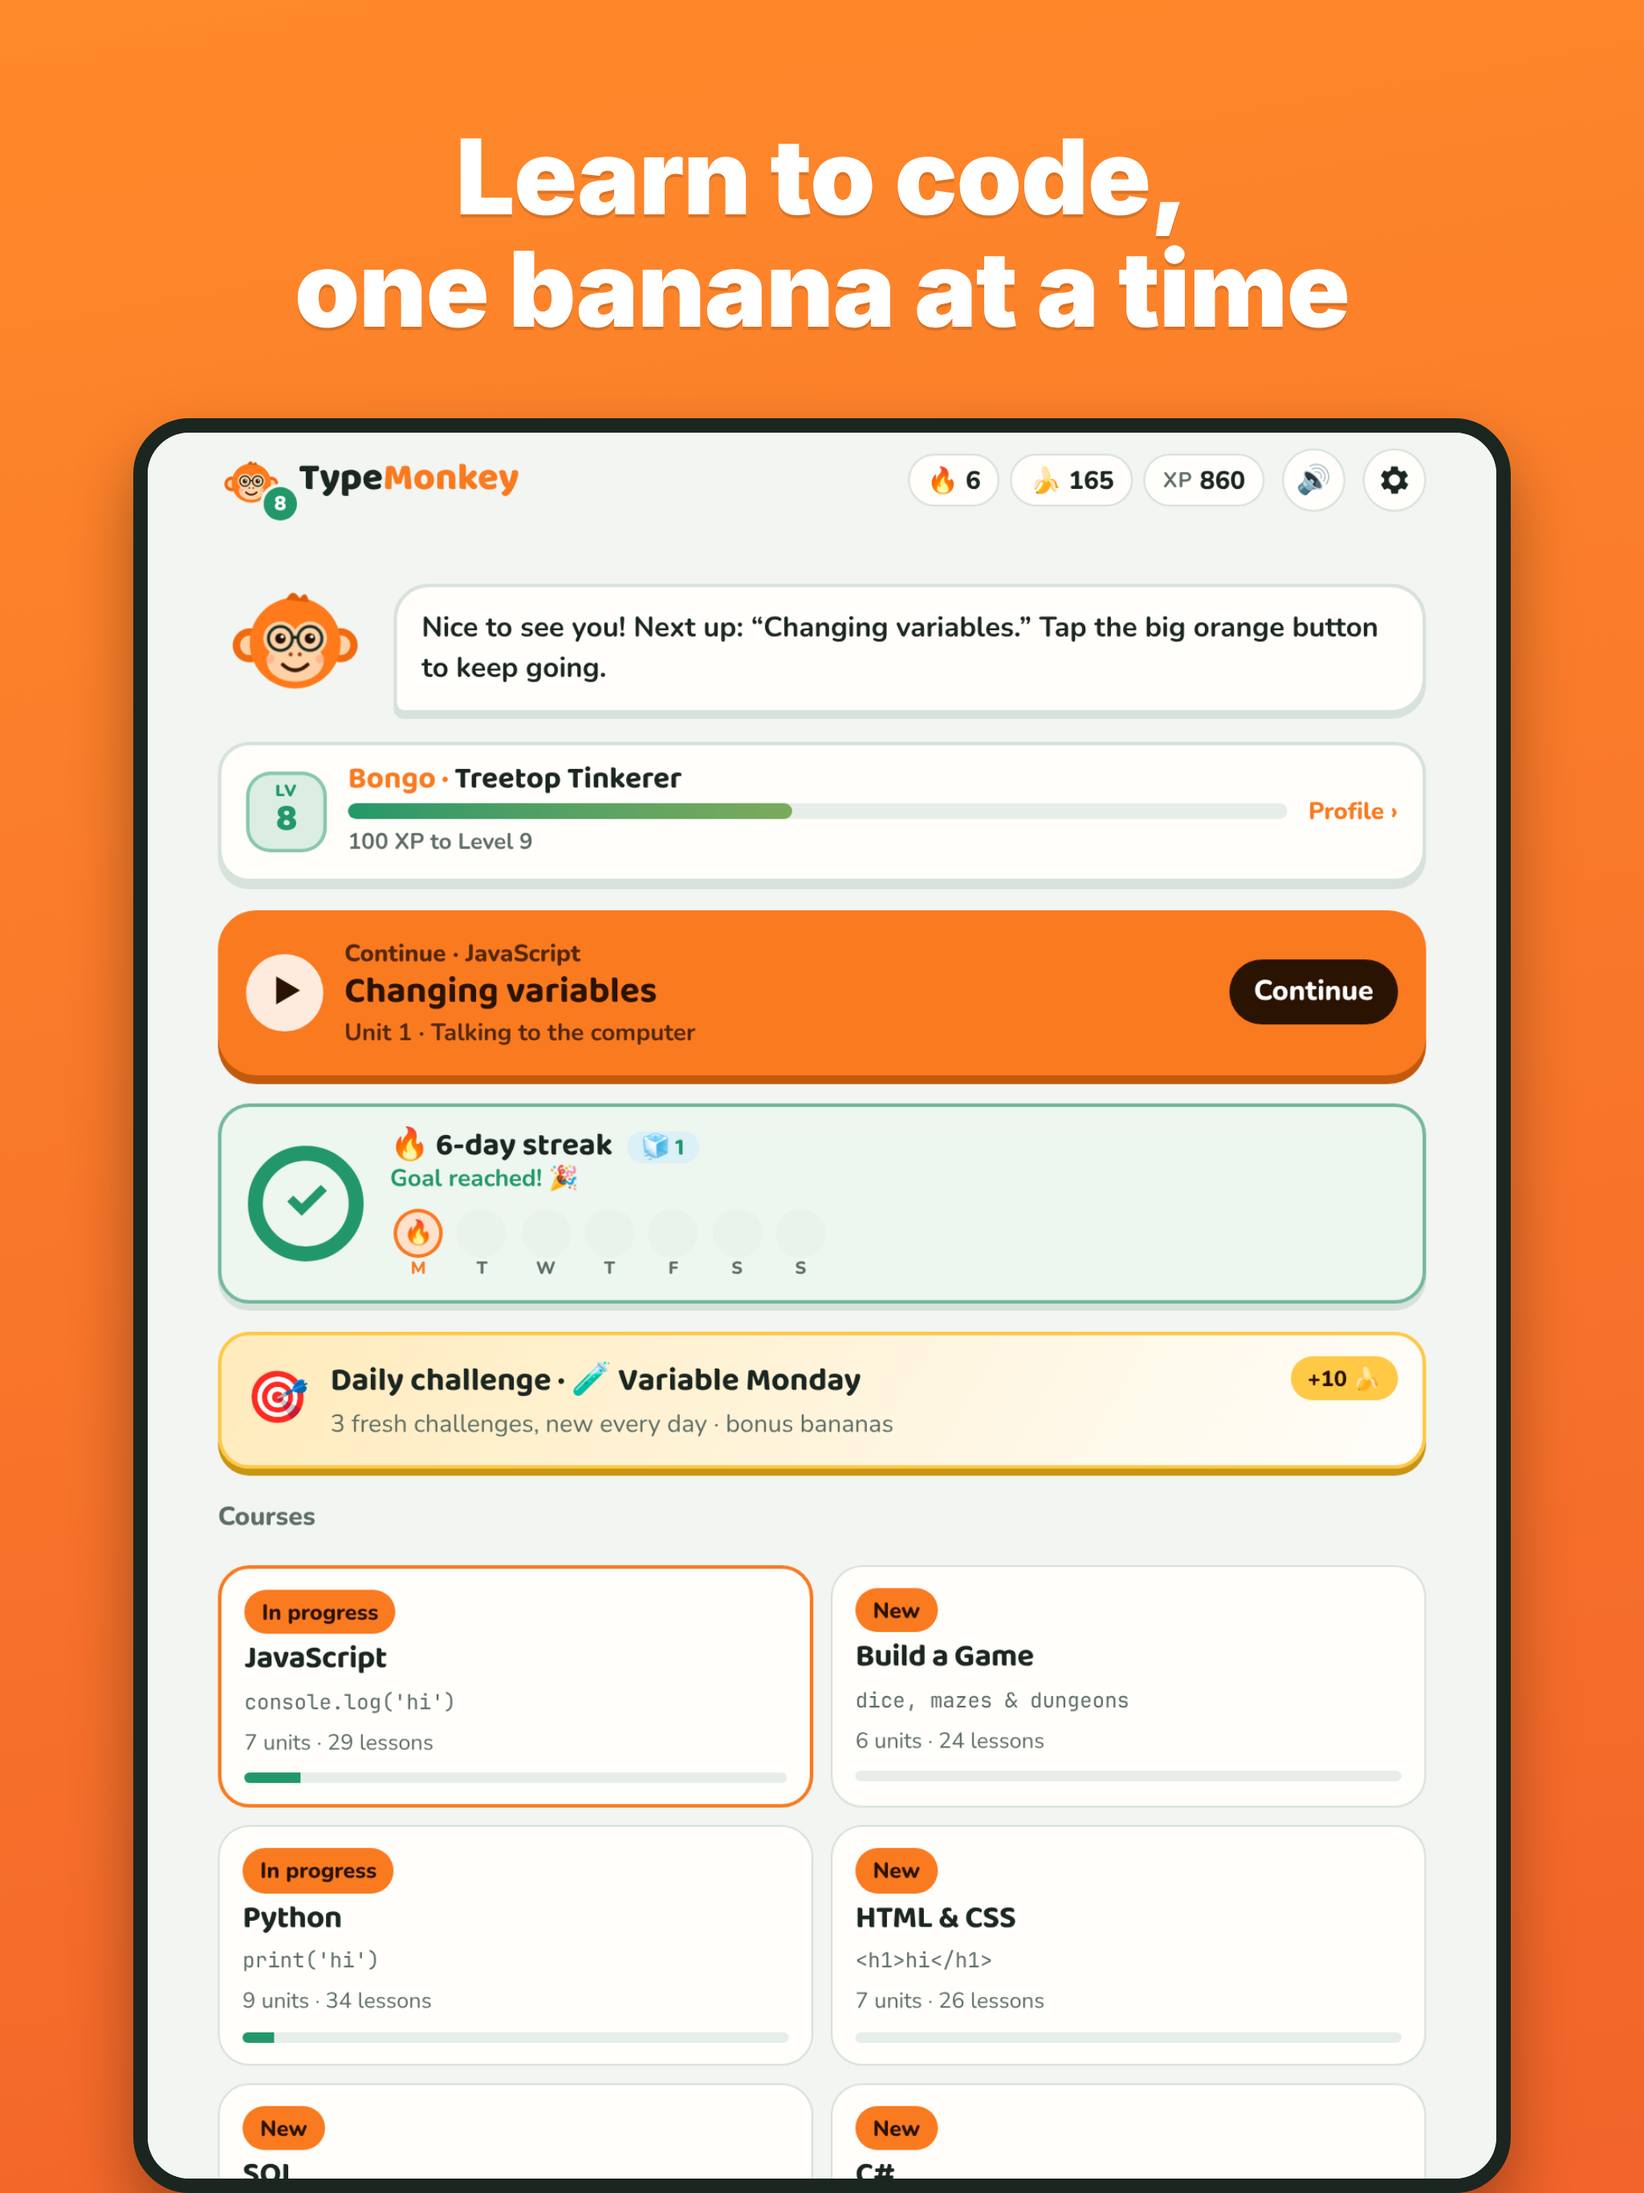
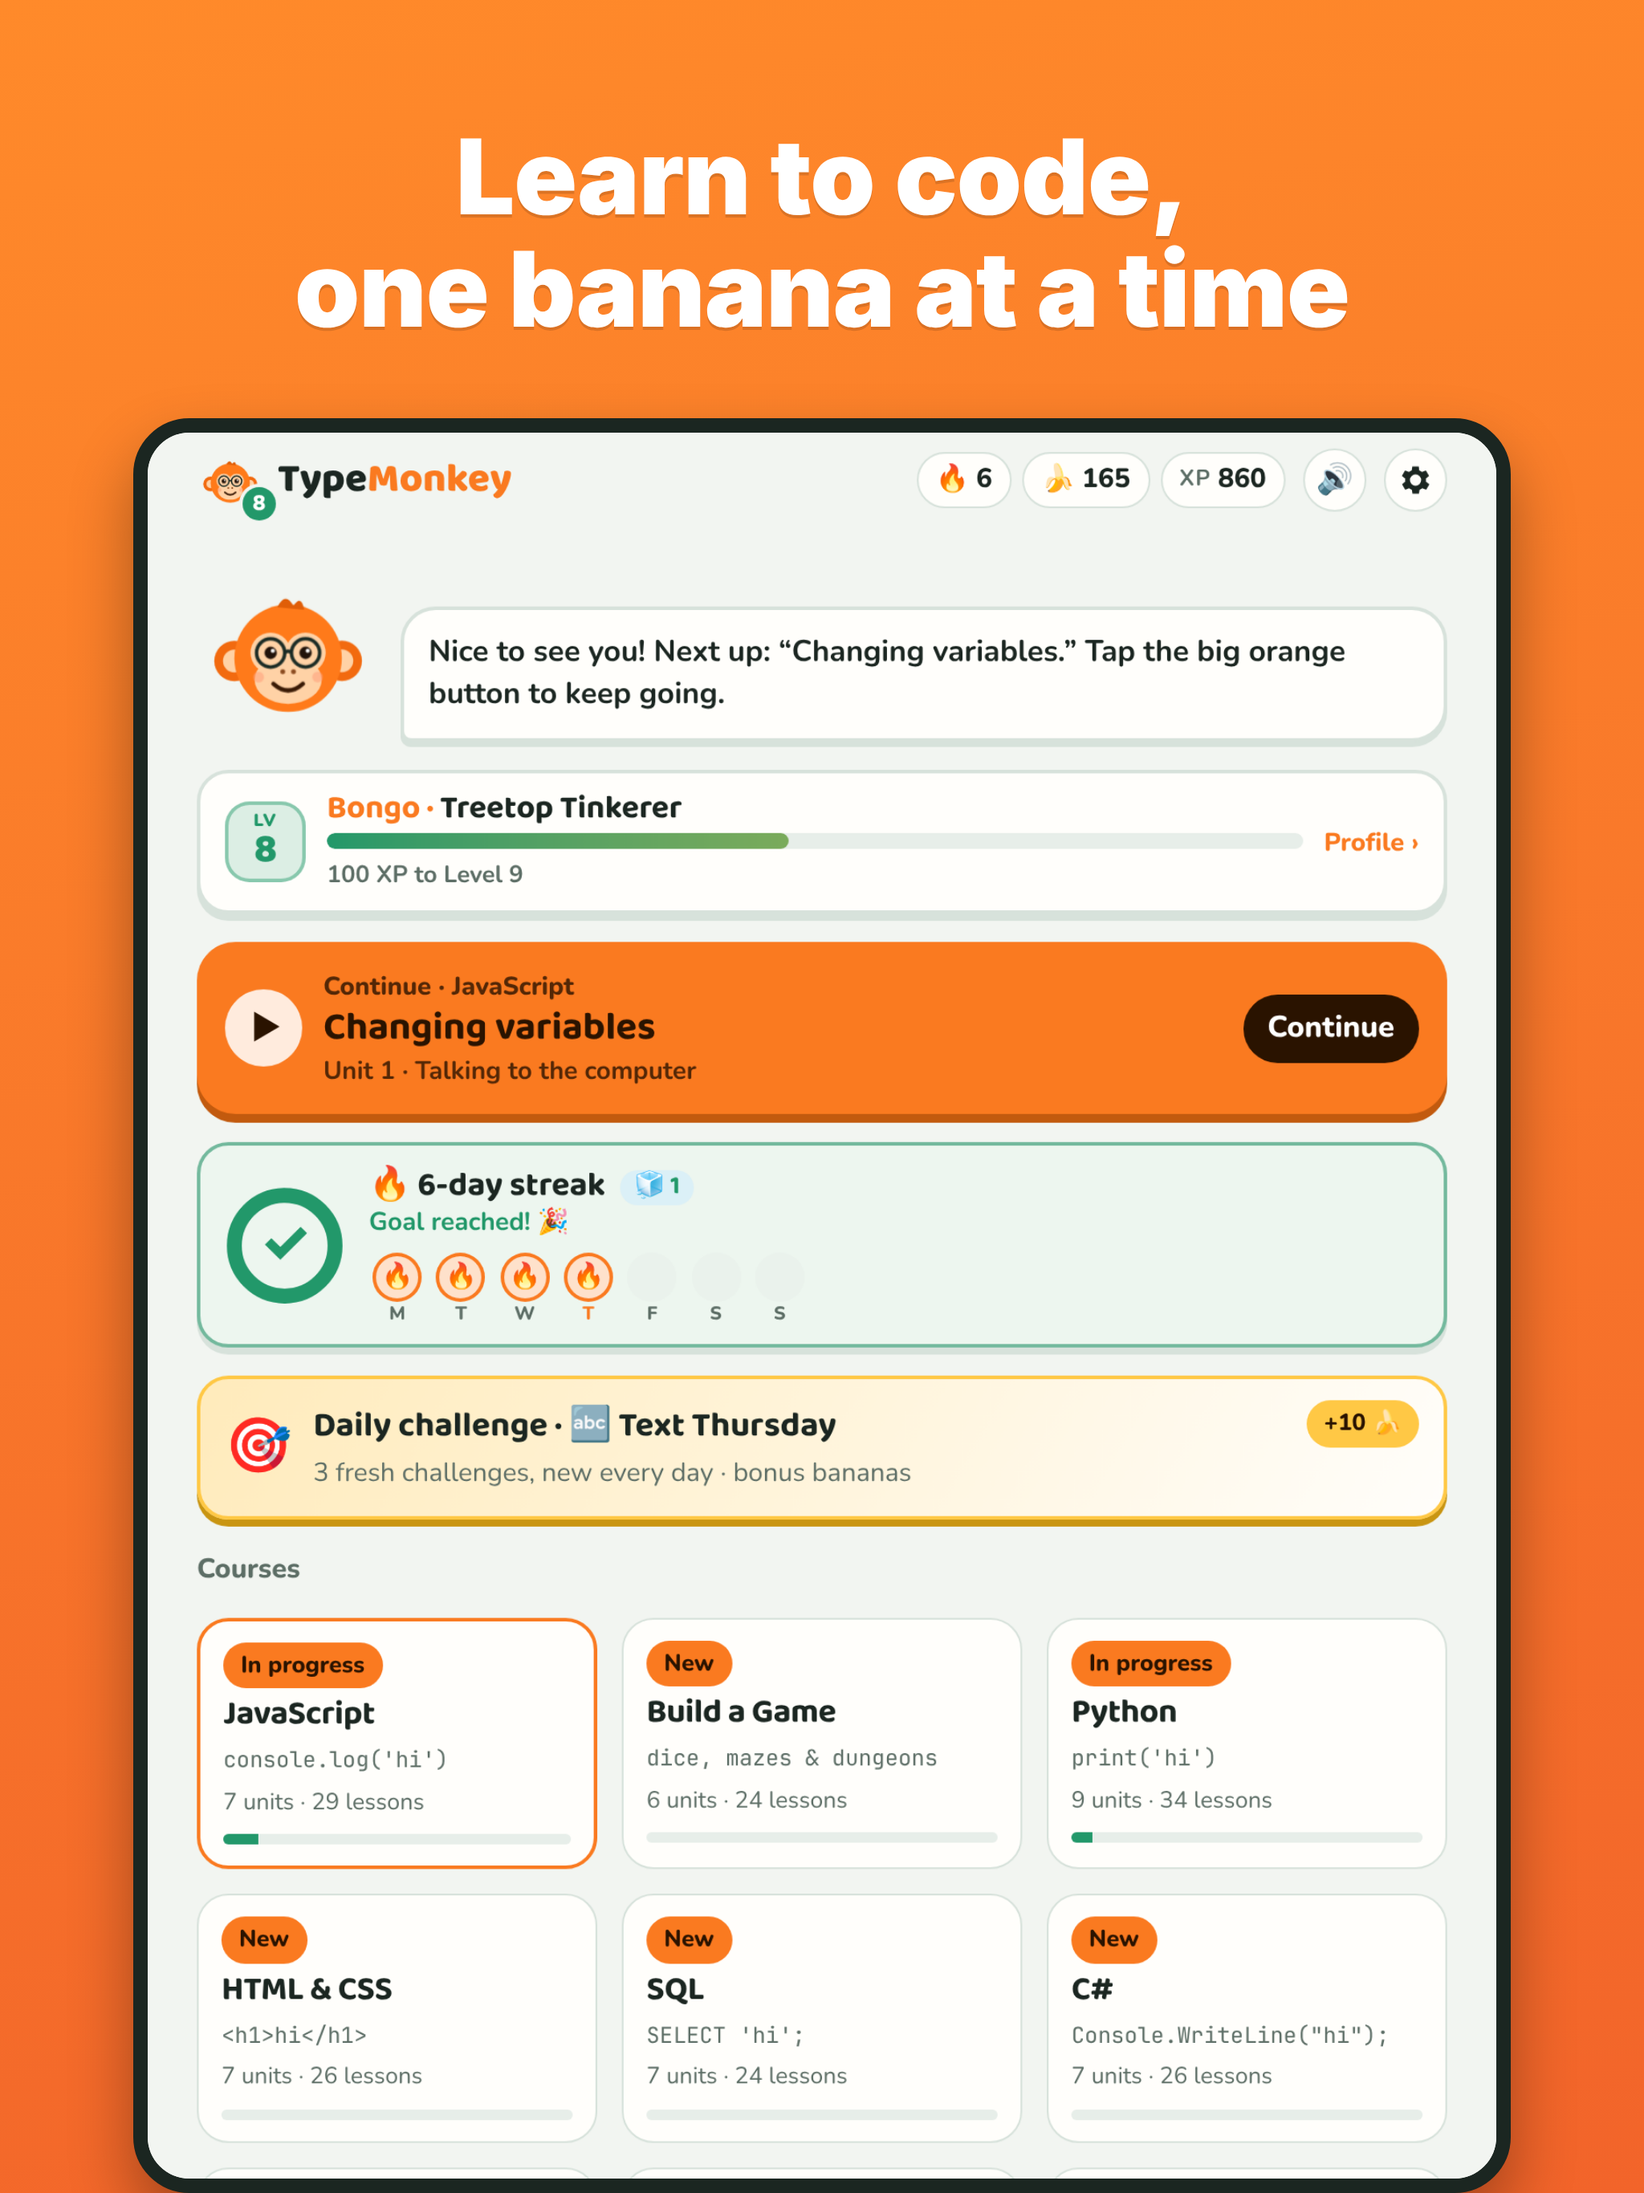
Real iPad app: iPhone + iPad build, larger type on tablets, courses three across, two-column Home in landscape, centered lessons, bigger Jr. games; iPad screenshots
Claude-Session: https://claude.ai/code/session_01SrKVjDkXxNfhwYc5YCkDbQ

diff --git a/index.html b/index.html
@@ -1025,7 +1025,7 @@ h1,h2,h3{letter-spacing:-.012em;text-wrap:balance}
 .course:active{transform:scale(.98)}
 .continue small{text-transform:none;letter-spacing:0;font-size:.85rem}
 /* returning players: skip the big tagline, start with the monkey's greeting */
-.stack.tm-returning>.hero{display:none}
+.stack.tm-returning .hero{display:none}
 
 /* ---------- progress bars with a little shine ---------- */
 .lessonbar .progress{height:14px}
@@ -1059,6 +1059,38 @@ h1,h2,h3{letter-spacing:-.012em;text-wrap:balance}
 .lines.pick .ln{background:var(--surface);border:2px solid var(--line);border-radius:12px;box-shadow:0 3px 0 var(--line);transition:transform .09s var(--press),box-shadow .09s var(--press)}
 .lines.pick .ln:active{transform:translateY(2px);box-shadow:0 1px 0 var(--line)}
 .lines:not(.pick) .ln{border-radius:10px}
+
+/* ===== 97-ipad: TypeMonkey on iPad (and any wide screen) =====
+   Phones are untouched. From iPad-mini width up: a bit larger type and targets, courses three across, the four
+   practice tools in a row, lessons at a comfortable reading width, bigger Jr. games. In landscape (1024px+), Home
+   splits into "your day" on the left and "your courses" on the right (see 97-ipad.js). */
+@media (min-width:744px){
+  html{font-size:17px}
+  body{font-size:1rem}
+  .app{max-width:980px;padding-inline:28px}
+  .courses{grid-template-columns:repeat(3,1fr);gap:14px}
+  .tools{grid-template-columns:repeat(4,1fr)}
+  .tools .tool:last-child:nth-child(odd){grid-column:auto}
+  .buddy .tm{width:104px;height:104px}
+  /* lessons and Jr. games: readable width, centered */
+  #screen:has(.lessonbar)>*{width:100%;max-width:800px;margin-inline:auto}
+  .maze{width:min(100%,calc(var(--w) * 130px))}
+  .mc{font-size:clamp(1.6rem,3.6vw,2.6rem)}
+  .stage{height:300px}
+  .dancer{width:176px;height:176px;margin-left:-88px}
+  .stage .shadow{width:110px;margin-left:-55px}
+  .shopgrid{grid-template-columns:repeat(4,1fr)}
+  .badges{grid-template-columns:repeat(3,1fr)}
+}
+@media (min-width:1024px){
+  html{font-size:18px}
+  .app{max-width:1200px;padding-inline:36px}
+  .tm-split{display:grid;grid-template-columns:minmax(360px,420px) minmax(0,1fr);gap:28px;align-items:start}
+  .tm-split>.tm-col{display:flex;flex-direction:column;gap:16px;min-width:0}
+  .tm-split .tools{grid-template-columns:repeat(2,1fr)}
+  .tm-split .courses{grid-template-columns:repeat(3,1fr)}
+}
+@media (min-width:744px){.courses .course.kids{grid-column:1/-1}}
 
 </style>
 </head>

diff --git a/tm-app.js b/tm-app.js
@@ -3425,6 +3425,21 @@ function nameSheet(){
   try{const st=$("#screen>.stack");if(st&&((S.done||[]).length||S.xp))st.classList.add("tm-returning")}catch(e){}
   return r}}
 
+/* --- 97-ipad.js --- */
+/* ---------- 97-ipad: Home in two columns on wide screens (iPad landscape, 1024px+) ----------
+   Left: the monkey's greeting, level, Continue, streak ring and daily challenge. Right: courses, practice tools and
+   rewards. Below 1024px nothing changes. Turning the iPad redraws Home in the right layout. */
+const WIDE=()=>innerWidth>=1024;
+const SPLIT_LEFT=[".hero",":scope>.buddy","#lvcard",".continue","#todayCard","#daily"];
+{const _home=home;home=function(){const r=_home.apply(this,arguments);
+  try{const st=$("#screen>.stack");if(st&&WIDE()&&!st.querySelector(".tm-col")){
+    const L=document.createElement("div"),R=document.createElement("div");L.className="tm-col l";R.className="tm-col r";
+    const left=new Set(SPLIT_LEFT.map(q=>st.querySelector(q)).filter(Boolean));
+    [...st.children].forEach(el=>(left.has(el)?L:R).appendChild(el));
+    st.append(L,R);st.classList.add("tm-split")}}catch(e){console.warn(e)}
+  return r}}
+{let t=null,was=WIDE();addEventListener("resize",()=>{clearTimeout(t);t=setTimeout(()=>{const w=WIDE();if(w!==was){was=w;try{if(rerender===home&&!document.querySelector(".celebrate,.gate"))home()}catch(e){}}},200)})}
+
 $("#homeBtn").onclick=home;$("#gearBtn").onclick=settingsPage;
 $("#sndBtn").onclick=()=>{S.settings.sound=S.settings.sound===false;save();if(!S.settings.sound)SFX.stopMusic(true);else if(cur&&cur.l&&$(".lessonbar"))setTimeout(()=>jrMusic(cur.l.steps[cur.step]),60);toast(S.settings.sound?"Sounds on 🔊":"Sounds off 🔇");if(S.settings.sound)setTimeout(()=>sfx("correct"),40);if(rerender===settingsPage)settingsPage()};
 try{addWarmups()}catch(e){console.warn(e)}

diff --git a/src/features/97-ipad.css b/src/features/97-ipad.css
@@ -1,0 +1,31 @@
+/* ===== 97-ipad: TypeMonkey on iPad (and any wide screen) =====
+   Phones are untouched. From iPad-mini width up: a bit larger type and targets, courses three across, the four
+   practice tools in a row, lessons at a comfortable reading width, bigger Jr. games. In landscape (1024px+), Home
+   splits into "your day" on the left and "your courses" on the right (see 97-ipad.js). */
+@media (min-width:744px){
+  html{font-size:17px}
+  body{font-size:1rem}
+  .app{max-width:980px;padding-inline:28px}
+  .courses{grid-template-columns:repeat(3,1fr);gap:14px}
+  .tools{grid-template-columns:repeat(4,1fr)}
+  .tools .tool:last-child:nth-child(odd){grid-column:auto}
+  .buddy .tm{width:104px;height:104px}
+  /* lessons and Jr. games: readable width, centered */
+  #screen:has(.lessonbar)>*{width:100%;max-width:800px;margin-inline:auto}
+  .maze{width:min(100%,calc(var(--w) * 130px))}
+  .mc{font-size:clamp(1.6rem,3.6vw,2.6rem)}
+  .stage{height:300px}
+  .dancer{width:176px;height:176px;margin-left:-88px}
+  .stage .shadow{width:110px;margin-left:-55px}
+  .shopgrid{grid-template-columns:repeat(4,1fr)}
+  .badges{grid-template-columns:repeat(3,1fr)}
+}
+@media (min-width:1024px){
+  html{font-size:18px}
+  .app{max-width:1200px;padding-inline:36px}
+  .tm-split{display:grid;grid-template-columns:minmax(360px,420px) minmax(0,1fr);gap:28px;align-items:start}
+  .tm-split>.tm-col{display:flex;flex-direction:column;gap:16px;min-width:0}
+  .tm-split .tools{grid-template-columns:repeat(2,1fr)}
+  .tm-split .courses{grid-template-columns:repeat(3,1fr)}
+}
+@media (min-width:744px){.courses .course.kids{grid-column:1/-1}}

diff --git a/src/features/97-ipad.js b/src/features/97-ipad.js
@@ -1,0 +1,13 @@
+/* ---------- 97-ipad: Home in two columns on wide screens (iPad landscape, 1024px+) ----------
+   Left: the monkey's greeting, level, Continue, streak ring and daily challenge. Right: courses, practice tools and
+   rewards. Below 1024px nothing changes. Turning the iPad redraws Home in the right layout. */
+const WIDE=()=>innerWidth>=1024;
+const SPLIT_LEFT=[".hero",":scope>.buddy","#lvcard",".continue","#todayCard","#daily"];
+{const _home=home;home=function(){const r=_home.apply(this,arguments);
+  try{const st=$("#screen>.stack");if(st&&WIDE()&&!st.querySelector(".tm-col")){
+    const L=document.createElement("div"),R=document.createElement("div");L.className="tm-col l";R.className="tm-col r";
+    const left=new Set(SPLIT_LEFT.map(q=>st.querySelector(q)).filter(Boolean));
+    [...st.children].forEach(el=>(left.has(el)?L:R).appendChild(el));
+    st.append(L,R);st.classList.add("tm-split")}}catch(e){console.warn(e)}
+  return r}}
+{let t=null,was=WIDE();addEventListener("resize",()=>{clearTimeout(t);t=setTimeout(()=>{const w=WIDE();if(w!==was){was=w;try{if(rerender===home&&!document.querySelector(".celebrate,.gate"))home()}catch(e){}}},200)})}

diff --git a/src/features/95-polish.css b/src/features/95-polish.css
@@ -69,7 +69,7 @@ h1,h2,h3{letter-spacing:-.012em;text-wrap:balance}
 .course:active{transform:scale(.98)}
 .continue small{text-transform:none;letter-spacing:0;font-size:.85rem}
 /* returning players: skip the big tagline, start with the monkey's greeting */
-.stack.tm-returning>.hero{display:none}
+.stack.tm-returning .hero{display:none}
 
 /* ---------- progress bars with a little shine ---------- */
 .lessonbar .progress{height:14px}

diff --git a/app/build_app.py b/app/build_app.py
@@ -74,28 +74,27 @@ def patch_podfile():
     """Newer Xcode versions turn Capacitor's 'double-quoted include in framework header' warnings into errors and
     reject iOS 14 targets. Raise the minimum to iOS 15 and silence that one check for the Pods."""
     pod = IOS / "App" / "Podfile"
-    if not pod.exists():
-        return
-    s = pod.read_text()
-    new = s.replace("platform :ios, '14.0'", "platform :ios, '15.0'")
-    if "quoted-include" not in new and "assertDeploymentTarget(installer)" in new:
-        new = new.replace("assertDeploymentTarget(installer)", "assertDeploymentTarget(installer)" + PODFILE_FIX, 1)
-    if new != s:
-        pod.write_text(new)
-        print("patched ios/App/Podfile (iOS 15 minimum, quoted-include check off)")
+    if pod.exists():
+        s = pod.read_text()
+        new = s.replace("platform :ios, '14.0'", "platform :ios, '15.0'")
+        if "quoted-include" not in new and "assertDeploymentTarget(installer)" in new:
+            new = new.replace("assertDeploymentTarget(installer)", "assertDeploymentTarget(installer)" + PODFILE_FIX, 1)
+        if new != s:
+            pod.write_text(new)
+            print("patched ios/App/Podfile (iOS 15 minimum, quoted-include check off)")
     proj = IOS / "App" / "App.xcodeproj" / "project.pbxproj"
     if proj.exists():
         p = proj.read_text()
         q = p.replace("IPHONEOS_DEPLOYMENT_TARGET = 14.0;", "IPHONEOS_DEPLOYMENT_TARGET = 15.0;")
         # Xcode's user-script sandbox blocks CocoaPods' "[CP] Embed Pods Frameworks" step (PhaseScriptExecution failed)
         q = q.replace("ENABLE_USER_SCRIPT_SANDBOXING = YES;", "ENABLE_USER_SCRIPT_SANDBOXING = NO;")
-        # Version 1 is iPhone only (iPads can still run it in iPhone mode): fewer screenshots and checks for review
-        q = q.replace('TARGETED_DEVICE_FAMILY = "1,2";', "TARGETED_DEVICE_FAMILY = 1;")
+        # iPhone and iPad (a real iPad layout since 1.1, not the iPhone app blown up)
+        q = q.replace("TARGETED_DEVICE_FAMILY = 1;", 'TARGETED_DEVICE_FAMILY = "1,2";')
         if "ENABLE_USER_SCRIPT_SANDBOXING" not in q:
             q = q.replace("IPHONEOS_DEPLOYMENT_TARGET = 15.0;", "IPHONEOS_DEPLOYMENT_TARGET = 15.0;\n\t\t\t\tENABLE_USER_SCRIPT_SANDBOXING = NO;")
         if q != p:
             proj.write_text(q)
-            print("set the App target's iOS Deployment Target to 15.0")
+            print("updated the App target settings (iOS 15 minimum, iPhone + iPad)")
 
 
 AUDIO_MARK = "// TypeMonkey: let the app's sounds play even when the iPhone's silent switch is on,"

diff --git a/app/store/APP_STORE.md b/app/store/APP_STORE.md
@@ -171,14 +171,17 @@ python3 build_app.py --set-version 1.1 --build 4
 python3 build_app.py
 npx cap open ios
 ```
-In Xcode: **▶ Run** on your phone to check it, then **Product → Archive → Distribute App → Upload**.
+In Xcode: check **General → Supported Destinations** lists **iPhone** and **iPad** (the build script sets this), **▶ Run** on your phone (and an iPad or iPad simulator) to check it, then **Product → Archive → Distribute App → Upload**.
+
+1.1 is a real iPad app (no longer the iPhone app scaled up), so the **iPad screenshots matter**: use the new ones in `screenshots/ipad/`.
 
 **App Store Connect:** on the app page, click **+** next to iOS App, type **1.1**, pick build 1.1 (4), paste the text below into
 **What's New in This Version**, replace the screenshots with the new ones, then **Add for Review → Submit**.
 
 **What's New in This Version:**
-> A fresh new look for TypeMonkey!
+> A fresh new look for TypeMonkey, and a real iPad app!
 >
+> • Made for iPad: bigger text and buttons, your courses three across, and in landscape your day on the left and all your courses on the right
 > • Every button, answer and course is now a chunky, tappable block that presses down when you tap it
 > • A clear green or red result bar after every answer
 > • Courses in a neat two-column grid, so you see more at once
